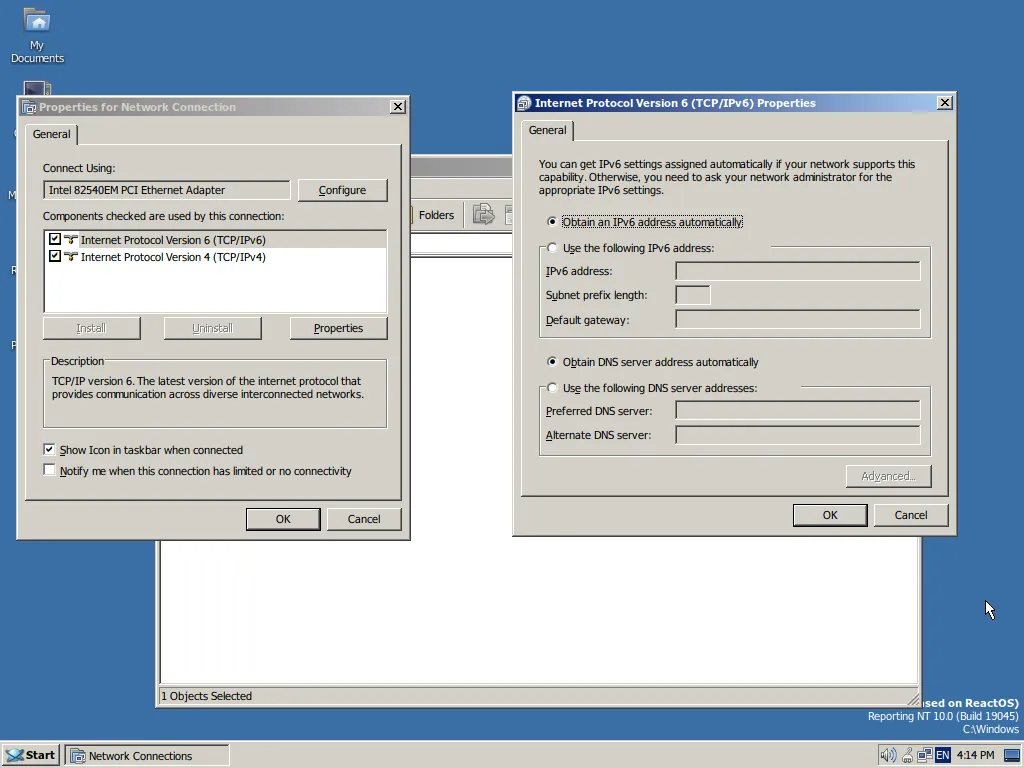
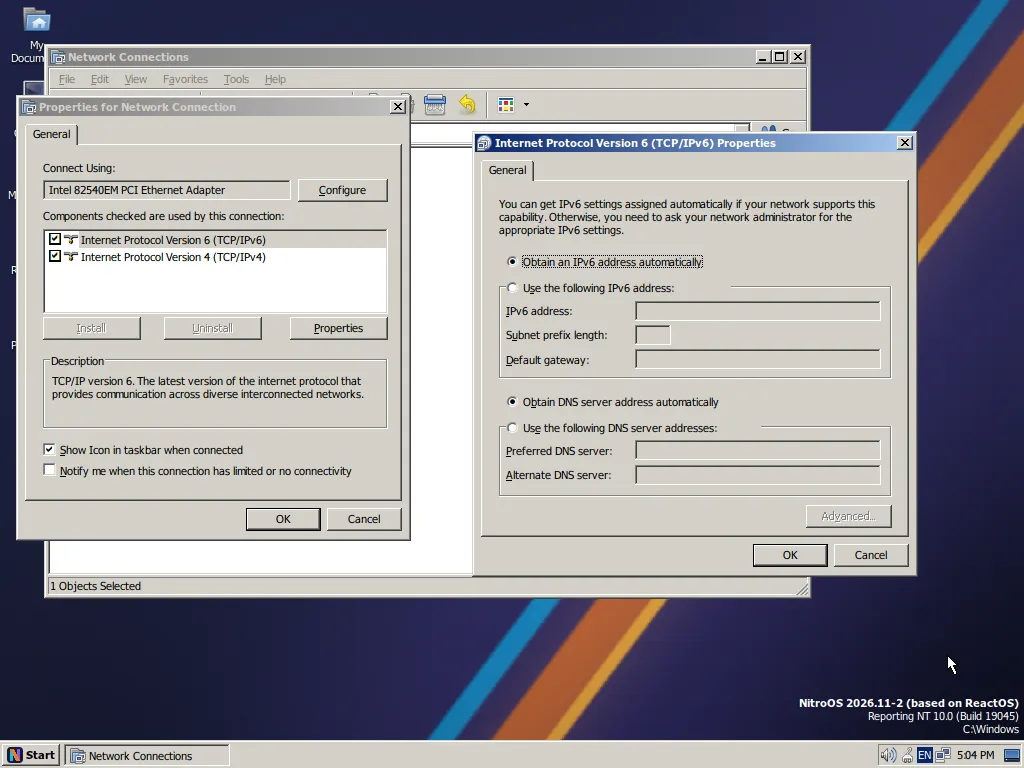
Site and README: branded IPv6 screenshots

diff --git a/docs/index.html b/docs/index.html
@@ -56,7 +56,7 @@
 </div>
 </div></section>
 <section id="screenshots"><div class="wrap"><h2>Screenshots</h2>
-<p class="sub">NitroOS (64-bit, with NitroOS branding) on freshly installed virtual machines with 4 CPUs, 4 GB of memory and a 1024x768 screen. Shots marked * are from a development build of 9 November, after release 2026.11-1; shots marked † are from release 2026.11-2, on our isolated IPv6 test network (its addresses are from the documentation range <code>2001:db8::/32</code>); the others are from release 2026.11-1. These are unedited screen captures. Click a picture to see it full size.</p>
+<p class="sub">NitroOS (64-bit, with NitroOS branding) on freshly installed virtual machines with 4 CPUs, 4 GB of memory and a 1024x768 screen. Shots marked * are from a development build of 9 November, after release 2026.11-1; shots marked † are from release 2026.11-2 with the NitroOS artwork that the next release ships by default, on our isolated IPv6 test network (its addresses are from the documentation range <code>2001:db8::/32</code>); the others are from release 2026.11-1. These are unedited screen captures. Click a picture to see it full size.</p>
 <h3 class="galh">The system</h3>
 <div class="gallery">
 <figure><a href="img/nitro-desktop.webp"><img loading="lazy" width="1024" height="768" src="img/nitro-desktop.webp" alt="The desktop"></a><figcaption>The desktop</figcaption></figure>
@@ -78,7 +78,7 @@
 <div class="gallery">
 <figure><a href="img/nitro-ipv6-properties.webp"><img loading="lazy" width="1024" height="768" src="img/nitro-ipv6-properties.webp" alt="IPv6 is built in: TCP/IPv6 sits next to TCP/IPv4 in the connection properties, set to automatic by default †"></a><figcaption>IPv6 is built in: TCP/IPv6 sits next to TCP/IPv4 in the connection properties, set to automatic by default †</figcaption></figure>
 <figure><a href="img/nitro-ipv6-ipconfig.webp"><img loading="lazy" width="1024" height="768" src="img/nitro-ipv6-ipconfig.webp" alt="ipconfig /all: an address from the router, a temporary address for privacy, and the DNS server announced by the network, all picked up automatically †"></a><figcaption><code>ipconfig /all</code>: an address from the router, a temporary address for privacy, and the DNS server announced by the network, all picked up automatically †</figcaption></figure>
-<figure><a href="img/nitro-ipv6-only-page.webp"><img loading="lazy" width="1024" height="768" src="img/nitro-ipv6-only-page.webp" alt="PowerShell 7 fetching a web page from a name that has only an IPv6 address †"></a><figcaption>PowerShell 7 fetching a web page from a name that has only an IPv6 address †</figcaption></figure>
+<figure><a href="img/nitro-ipv6-only-page.webp"><img loading="lazy" width="1024" height="768" src="img/nitro-ipv6-only-page.webp" alt="ping -6 and PowerShell 7 fetching a web page from a name that has only an IPv6 address †"></a><figcaption><code>ping -6</code> and PowerShell 7 fetching a web page from a name that has only an IPv6 address †</figcaption></figure>
 <figure><a href="img/nitro-ipv6-tracert.webp"><img loading="lazy" width="1024" height="768" src="img/nitro-ipv6-tracert.webp" alt="tracert -6 following an IPv6 route across two hops †"></a><figcaption><code>tracert -6</code> following an IPv6 route across two hops †</figcaption></figure>
 <figure><a href="img/nitro-firewall.webp"><img loading="lazy" width="1024" height="768" src="img/nitro-firewall.webp" alt="NitroOS Firewall, switched on after a fresh install"></a><figcaption>NitroOS Firewall, switched on after a fresh install</figcaption></figure>
 </div>

diff --git a/README.md b/README.md
@@ -104,7 +104,7 @@ How we measured: on 8 November 2026, on one host (AMD EPYC 9254, QEMU/KVM), with
 
 ## Screenshots
 
-NitroOS (64-bit, with NitroOS branding) on freshly installed virtual machines with 4 CPUs, 4 GB of memory and a 1024x768 screen. Shots marked * are from a development build of 9 November, after release 2026.11-1; shots marked † are from release 2026.11-2, on our isolated IPv6 test network (its addresses are from the documentation range `2001:db8::/32`); the others are from release 2026.11-1. These are unedited screen captures. Click a picture to see it full size.
+NitroOS (64-bit, with NitroOS branding) on freshly installed virtual machines with 4 CPUs, 4 GB of memory and a 1024x768 screen. Shots marked * are from a development build of 9 November, after release 2026.11-1; shots marked † are from release 2026.11-2 with the NitroOS artwork that the next release ships by default, on our isolated IPv6 test network (its addresses are from the documentation range `2001:db8::/32`); the others are from release 2026.11-1. These are unedited screen captures. Click a picture to see it full size.
 
 ### The system
 
@@ -127,7 +127,7 @@ NitroOS (64-bit, with NitroOS branding) on freshly installed virtual machines wi
 | | |
 |---|---|
 | <a href="docs/img/nitro-ipv6-properties.webp"><img src="docs/img/nitro-ipv6-properties.webp" alt="IPv6 is built in: TCP/IPv6 sits next to TCP/IPv4 in the connection properties, set to automatic by default †"></a><br>IPv6 is built in: TCP/IPv6 sits next to TCP/IPv4 in the connection properties, set to automatic by default † | <a href="docs/img/nitro-ipv6-ipconfig.webp"><img src="docs/img/nitro-ipv6-ipconfig.webp" alt="ipconfig /all: an address from the router, a temporary address for privacy, and the DNS server announced by the network, all picked up automatically †"></a><br>`ipconfig /all`: an address from the router, a temporary address for privacy, and the DNS server announced by the network, all picked up automatically † |
-| <a href="docs/img/nitro-ipv6-only-page.webp"><img src="docs/img/nitro-ipv6-only-page.webp" alt="PowerShell 7 fetching a web page from a name that has only an IPv6 address †"></a><br>PowerShell 7 fetching a web page from a name that has only an IPv6 address † | <a href="docs/img/nitro-ipv6-tracert.webp"><img src="docs/img/nitro-ipv6-tracert.webp" alt="tracert -6 following an IPv6 route across two hops †"></a><br>`tracert -6` following an IPv6 route across two hops † |
+| <a href="docs/img/nitro-ipv6-only-page.webp"><img src="docs/img/nitro-ipv6-only-page.webp" alt="ping -6 and PowerShell 7 fetching a web page from a name that has only an IPv6 address †"></a><br>`ping -6` and PowerShell 7 fetching a web page from a name that has only an IPv6 address † | <a href="docs/img/nitro-ipv6-tracert.webp"><img src="docs/img/nitro-ipv6-tracert.webp" alt="tracert -6 following an IPv6 route across two hops †"></a><br>`tracert -6` following an IPv6 route across two hops † |
 | <a href="docs/img/nitro-firewall.webp"><img src="docs/img/nitro-firewall.webp" alt="NitroOS Firewall, switched on after a fresh install"></a><br>NitroOS Firewall, switched on after a fresh install |   |
 
 ### Setup
